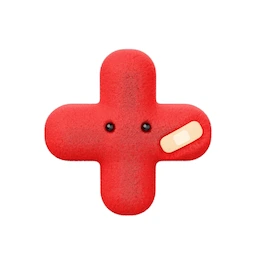
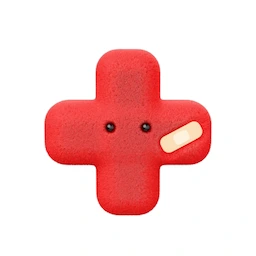
Bots: the PM's deeper yellow and the Fixer's even red (touch-ups)

diff --git a/src/components/ask/team.ts b/src/components/ask/team.ts
@@ -10,7 +10,7 @@ export const TEAM: Record<BotId, Bot> = {
     role: "Project manager",
     does: "Knows every story. Answers your questions and hands new work to the right bot.",
     now: "Listening",
-    colour: "#F5B82E",
+    colour: "#F1BA3A",
     tint: "#FDF3D6",
     poster: "/images/bots/team/pm",
   },
@@ -51,7 +51,7 @@ export const TEAM: Record<BotId, Bot> = {
     role: "Fixes failed builds",
     does: "Picks up anything that failed, retries it and tells you what it found.",
     now: "Retrying hq-21",
-    colour: "#E93B3B",
+    colour: "#E93F3E",
     tint: "#FDE6E6",
     poster: "/images/bots/team/fixer",
   },
